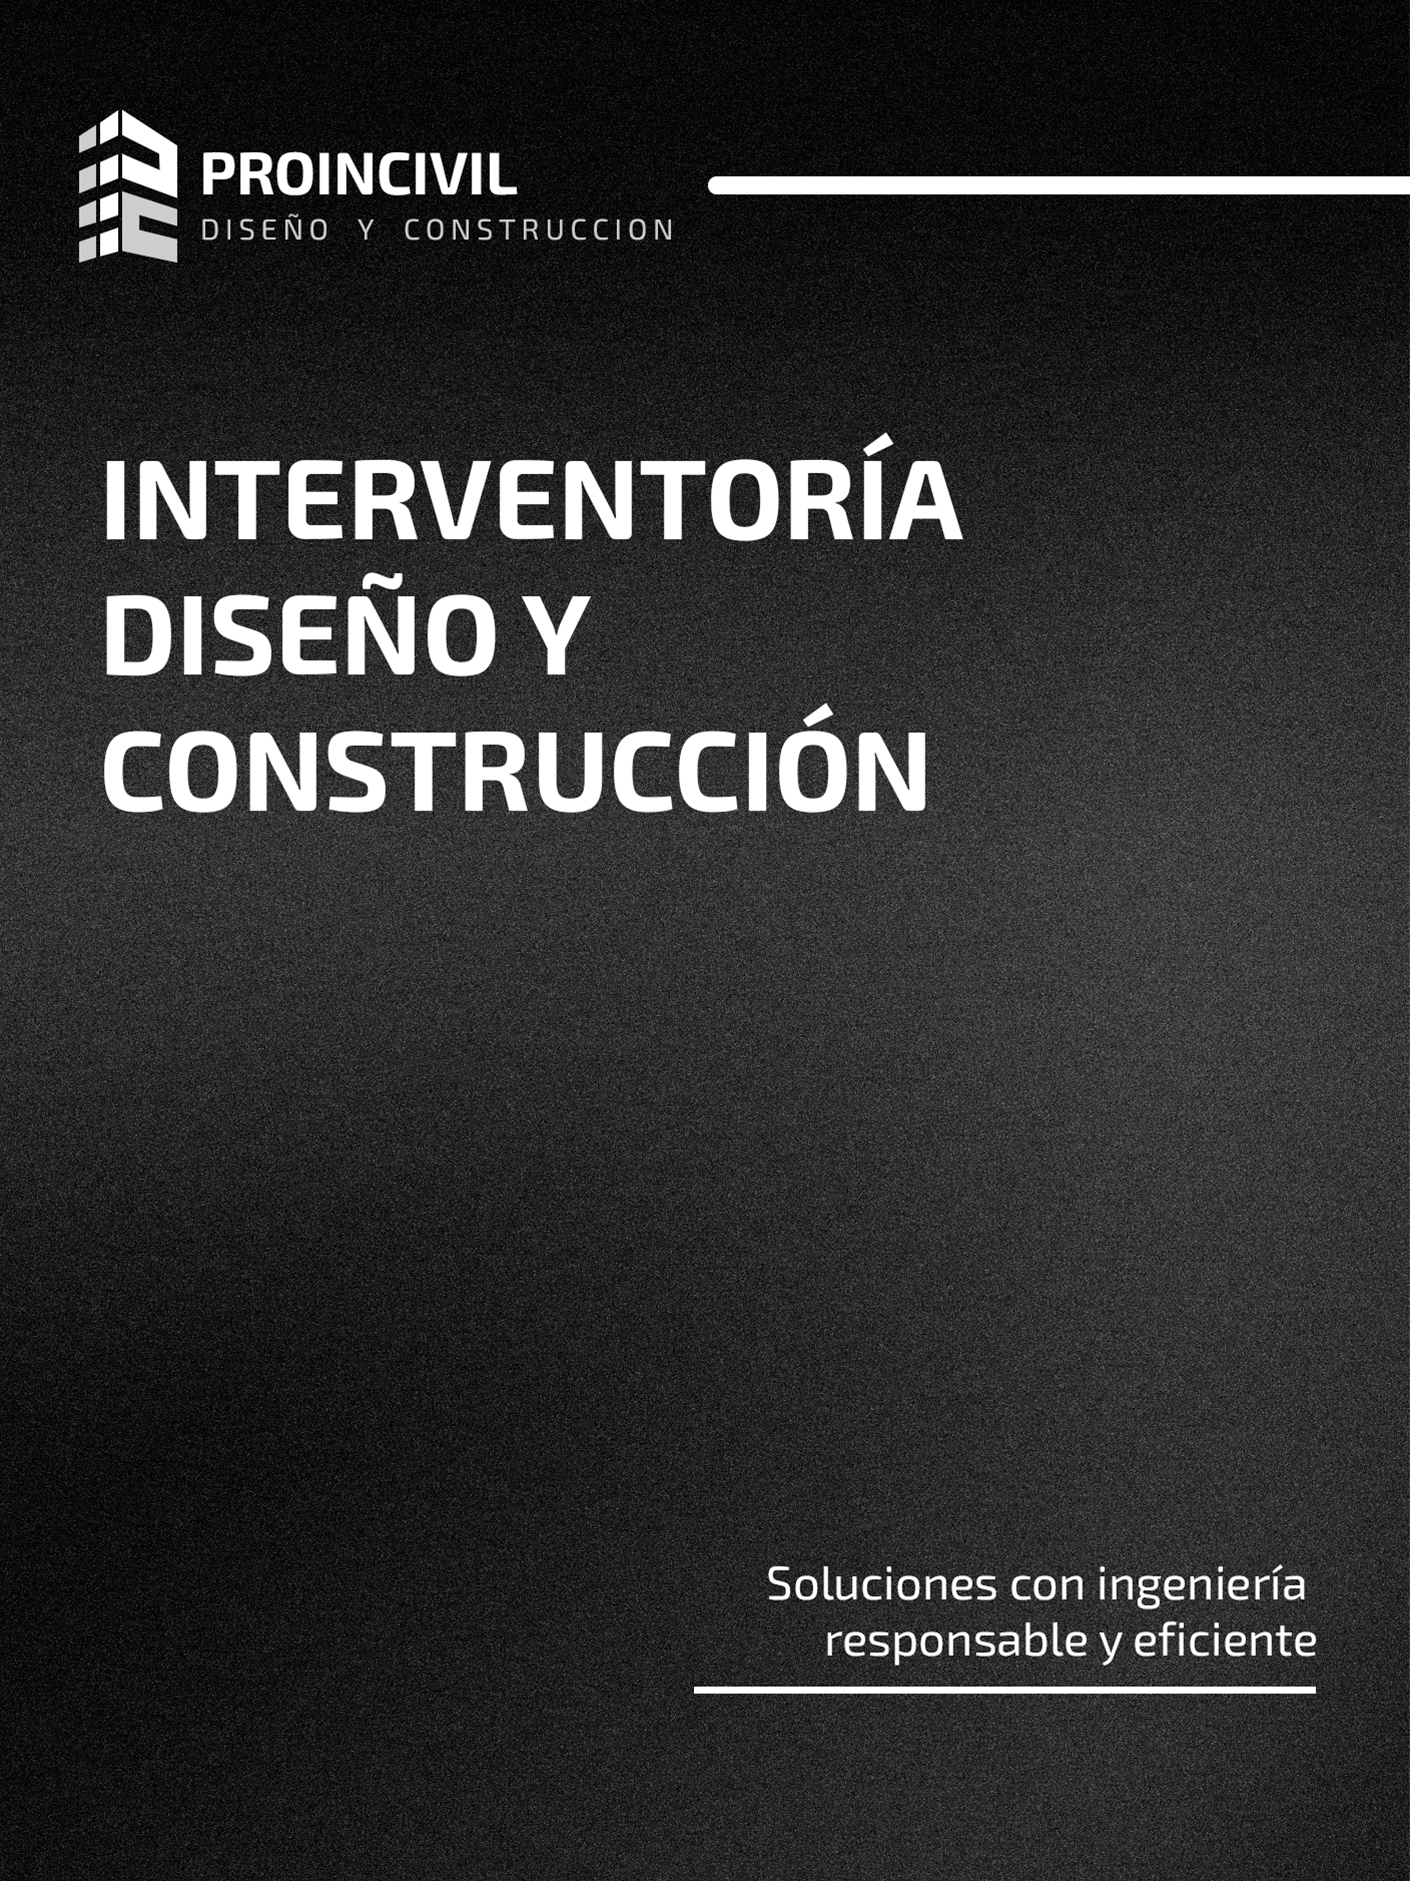
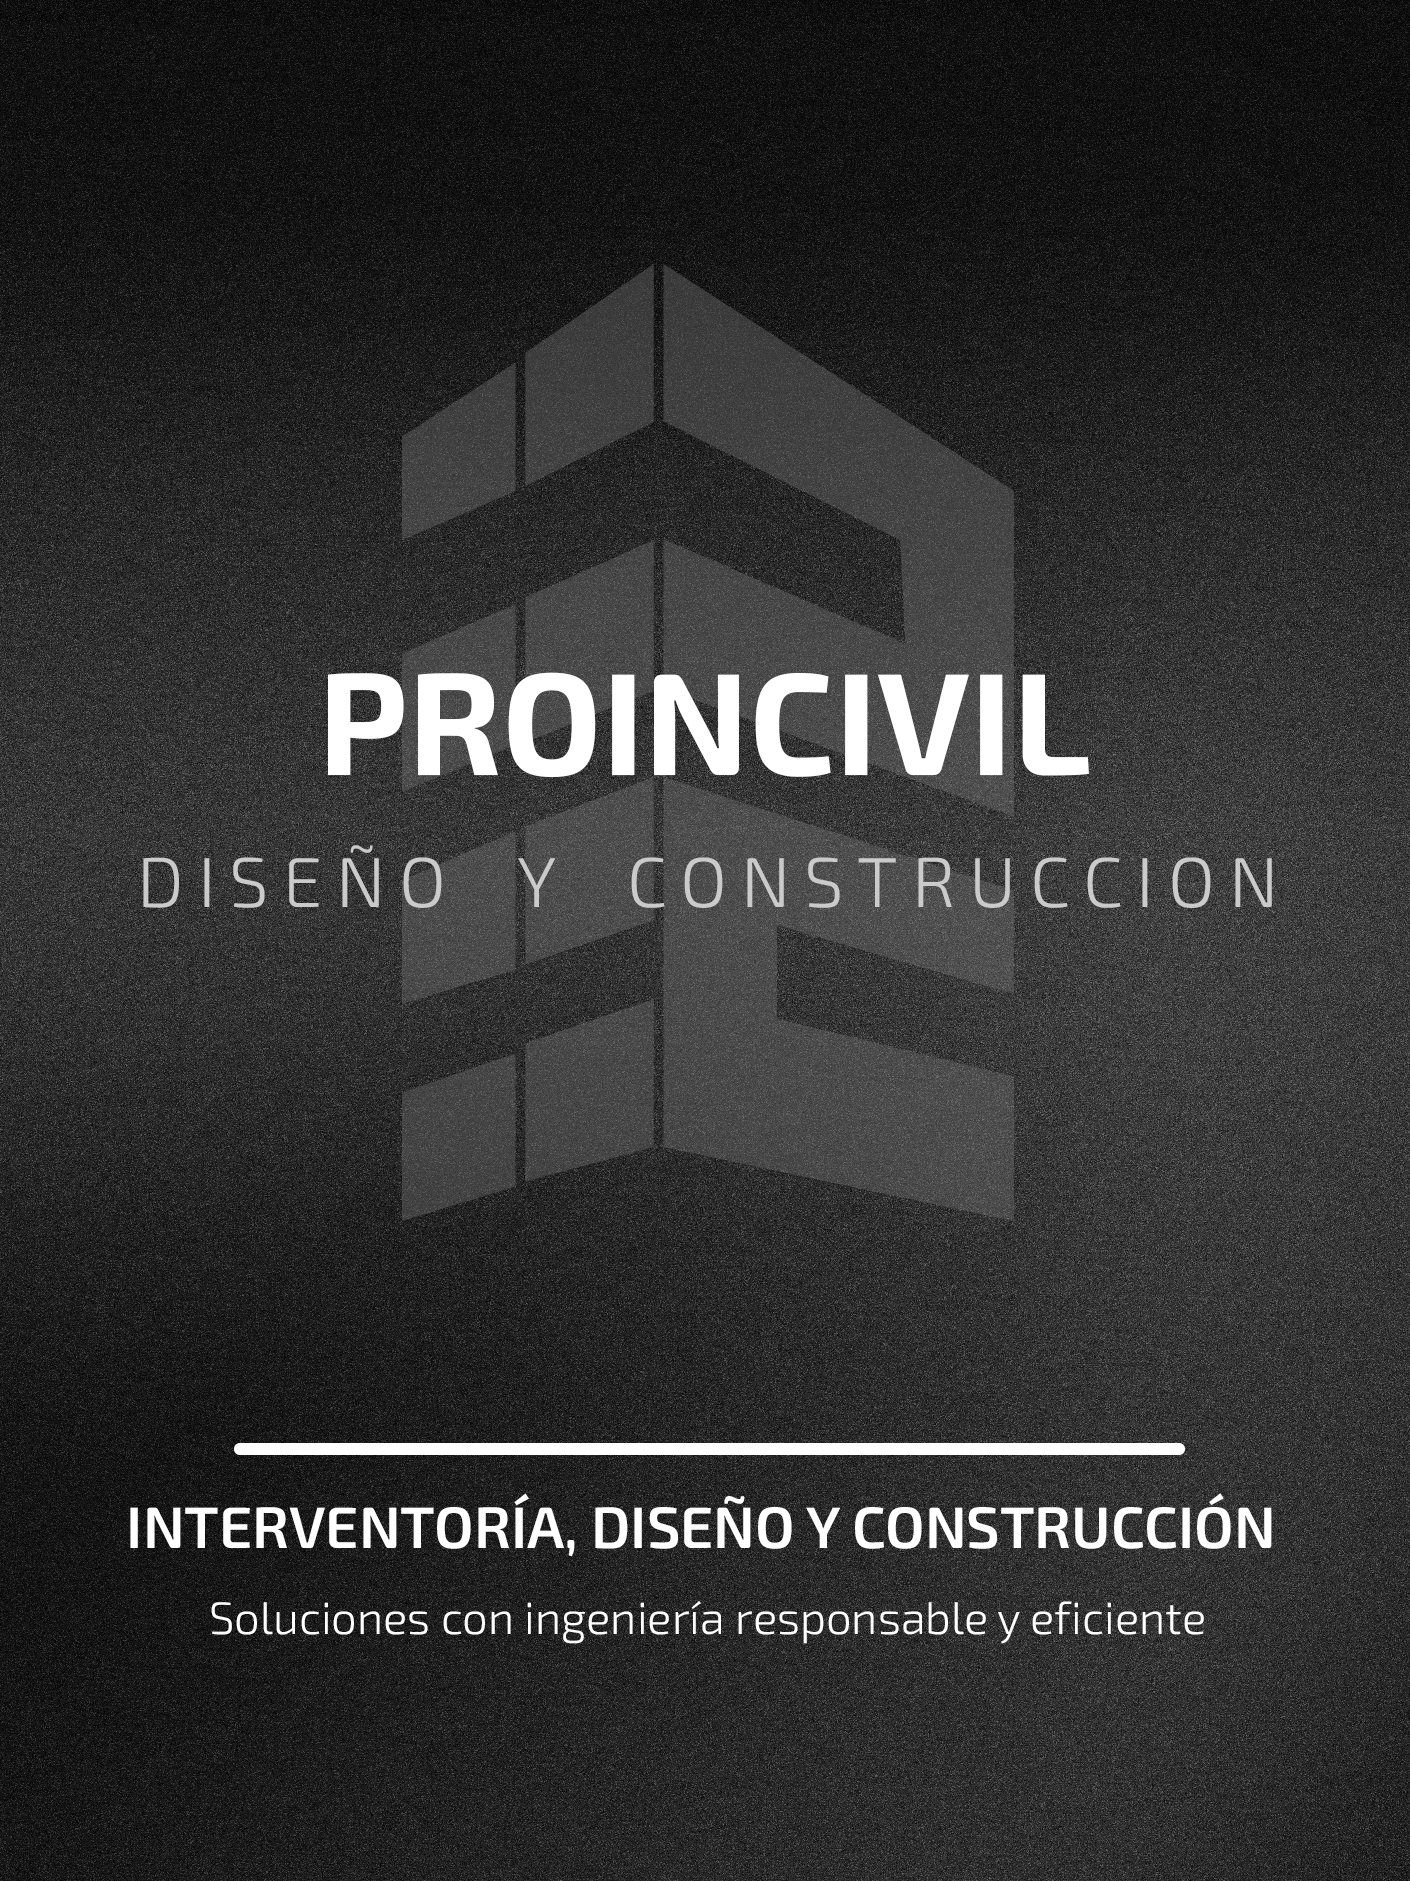
Add files via upload

diff --git a/main.js b/main.js
@@ -20,6 +20,10 @@ const b2 = document.querySelector("#b2");
 const b3 = document.querySelector("#b3");
 const b4 = document.querySelector("#b4");
 
+const link1 = document.querySelector("#link1");
+const link2 = document.querySelector("#link2");
+const link3 = document.querySelector("#link3");
+
 
 
 
@@ -31,7 +35,11 @@ prevBtn.style.display="none";
 prevBtn.addEventListener("click", goPrevPage);
 prevBtn2.addEventListener("click", goPrevPage);
 nextBtn.addEventListener("click", goNextPage);
+link1.addEventListener("click", linkPress);
+link2.addEventListener("click", linkPress);
+link3.addEventListener("click", linkPress);
 p4.addEventListener("click", goPrevPage);
+
 
 
 
@@ -40,6 +48,8 @@ p4.addEventListener("click", goPrevPage);
 let currentLocation = 1;
 let numOfPapers = 4;
 let maxLocation = numOfPapers + 1;
+
+let linkCounter = 0;
 
 let open =false;
 responcive();
@@ -137,9 +147,18 @@ function goPrevPage() {
                 paper3.style.zIndex = 4;
                 break;
                 case 5:
-                    openBook();
-                    paper4.classList.remove("flipped");
-                    paper4.style.zIndex = 4;
+                    if(linkCounter!=0)
+                        {
+                            linkCounter=0;
+                            
+
+                        }
+                        else{
+                            openBook();
+                            paper4.classList.remove("flipped");
+                            paper4.style.zIndex = 4;
+                        }
+                    
                     break;
             default:
                 throw new Error("unkown state");
@@ -168,4 +187,8 @@ function responcive(){
         nextBtn.style.width = "100%";
         nextBtn.style.width = "100%";
     }
+}
+function linkPress() {
+    linkCounter=1;
+    
 }

diff --git a/index.html b/index.html
@@ -42,7 +42,7 @@
         <div id="p1" class="paper">
             <div class="front">
                 <div id="f1" class="front-content">
-                    <img class="paper" src="img/pt2.png" alt="">
+                    <img class="paper" src="img/pt.png" alt="">
                 </div>
             </div>
             <div class="back">
@@ -88,9 +88,9 @@
             <div class="back">
                 <div id="b4" class="back-content">
                     <div class="lastButton" id="prev-btn2"></div>
-                    <a class="linkInst" href="https://www.instagram.com/proincivil/" target="_blank"></a>
-                    <a class="linkedIn" href="https://www.linkedin.com/in/proincivil-s-a-s-undefined-70ab7928a" target="_blank"></a>
-                    <a class="facebook" href="https://www.facebook.com" target="_blank"></a>
+                    <a id="link1" class="linkInst" href="https://www.instagram.com/proincivil/" target="_blank"></a>
+                    <a id="link2" class="linkedIn" href="https://www.linkedin.com/in/proincivil-s-a-s-undefined-70ab7928a" target="_blank"></a>
+                    <a id="link3" class="facebook" href="https://www.facebook.com" target="_blank"></a>
                     <img class="paper02" src="img/cp.png" alt="">
                     
                 </div>
